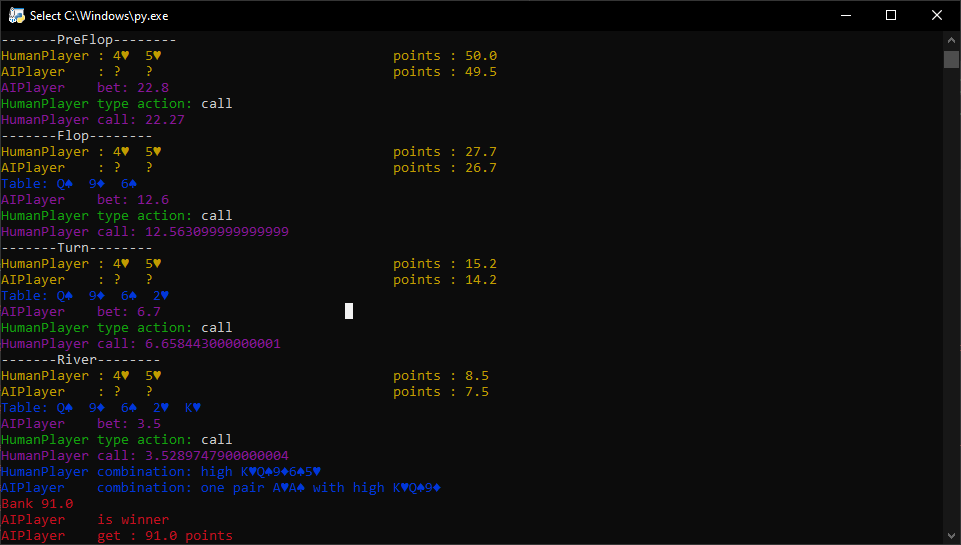
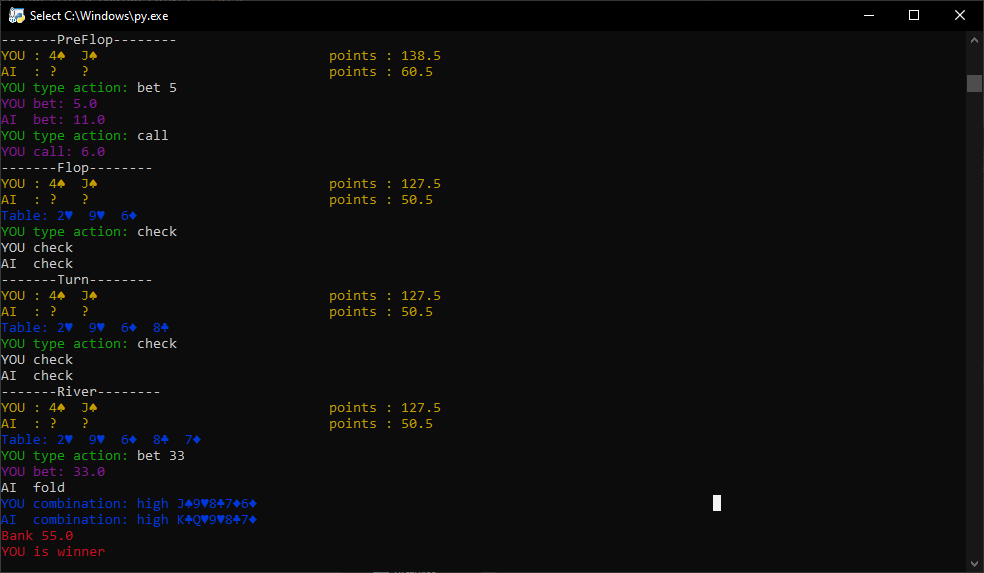
final

diff --git a/api/players/bot_nn_actions.py b/api/players/bot_nn_actions.py
@@ -13,17 +13,17 @@ class BotNNActions(TemplateBot):
     def do_action(self):
         if super().is_skip():
             return 0
-        if self.hand[0].rank < 10 or self.hand[1].rank < 10:
-            self.predict_result = 0
-            if config.TEST_INFO and config.OUTPUT_IN_CONSOLE:
-                print('rank < 10')
-        else:
-            for i in range(50, 100):
-                for j in range(i, 100):
-                    predicting_result = Model.dnn.predict(
-                        np.array([utils.get_array_inputs_cards_and_bot_actions(bot=self, call_limit=i, bet_limit=j)]))[0][0]
-                    if predicting_result > self.predict_result:
-                        self.bet_limit = j
-                        self.call_limit = i
-                        self.predict_result = predicting_result
+        self.bet_limit = 0
+        self.call_limit = 0
+        self.predict_result = 0
+        for i in range(50, 100):
+            for j in range(i, 100):
+                array_for_predict = [
+                    utils.get_array_inputs_cards_and_bot_actions(bot=self, call_limit=i, bet_limit=j)
+                ]
+                predicting_result = Model.dnn.predict(np.array(array_for_predict))[0][1]
+                if predicting_result > self.predict_result:
+                    self.bet_limit = j
+                    self.call_limit = i
+                    self.predict_result = predicting_result
         super().do_action()

diff --git a/api/players/template_bot.py b/api/players/template_bot.py
@@ -22,13 +22,19 @@ class TemplateBot(TemplatePlayer):
         self.result_percent = int(self.predict_result * 100)
         self.subtracted_result_percent = int(self.result_percent - self.call_limit)
         self.one_percent_score = self.points / 100
-        if self.result_percent > self.bet_limit:
+        if self.result_percent >= self.bet_limit:
             bet = self.one_percent_score * self.subtracted_result_percent
             self.do_bet(bet=bet)
-        elif self.call_limit < self.result_percent < self.bet_limit:
-            if self.one_percent_score == 0 or self.subtracted_result_percent > int(Bank.bet / self.one_percent_score):
+        elif self.result_percent >= self.call_limit:
+            if self.one_percent_score == 0 or self.subtracted_result_percent > int(Bank.bet / self.one_percent_score) \
+                    or config.PLAYING_MODE:
                 self.do_call()
             else:
                 self.do_fold()
         else:
-            self.do_fold()
+            from api.poker.core import Core
+            max_score = max([p.get_cur_points_in_bank() if p.get_cur_points_in_bank() else 0 for p in Core.players])
+            if max_score <= 1.0:
+                self.do_call()
+            else:
+                self.do_fold()

diff --git a/config.py b/config.py
@@ -29,7 +29,7 @@ NN_INPUTS_CARDS_AND_BOT_ACTIONS = True
 # ======================================================================================================================
 #               Names count equally player count, auto generate
 HUMAN_NAMES = {
-    "Human"
+    "YOU"
 }
 BOT_NAMES = {
     "AI"
